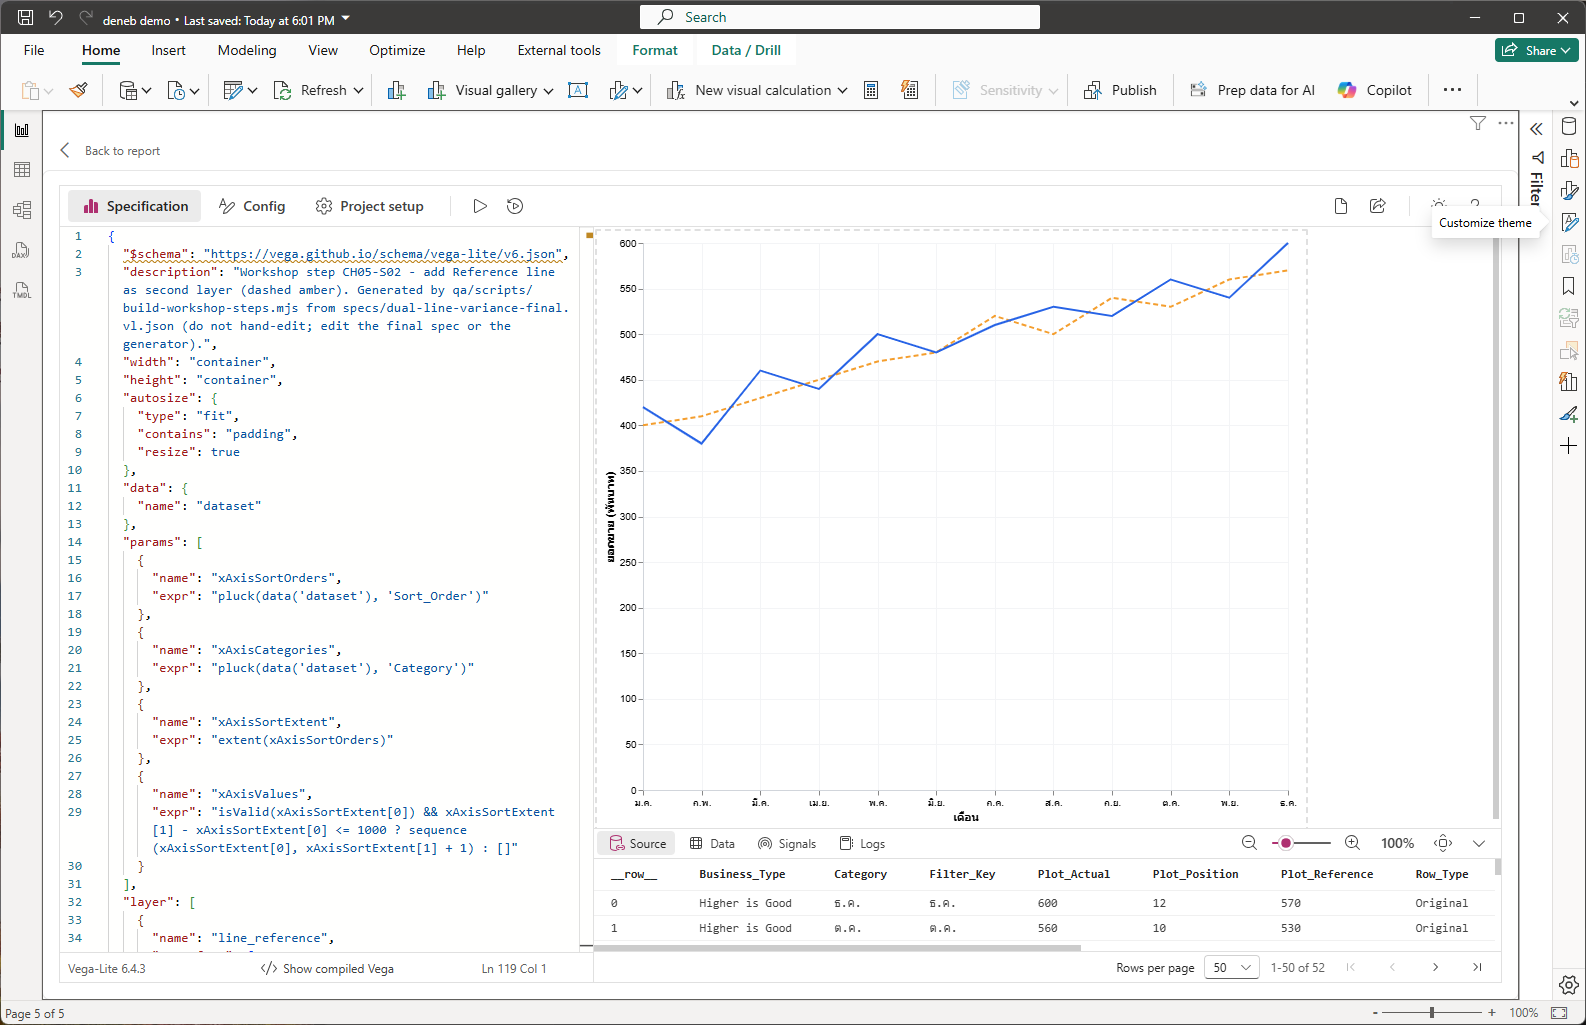
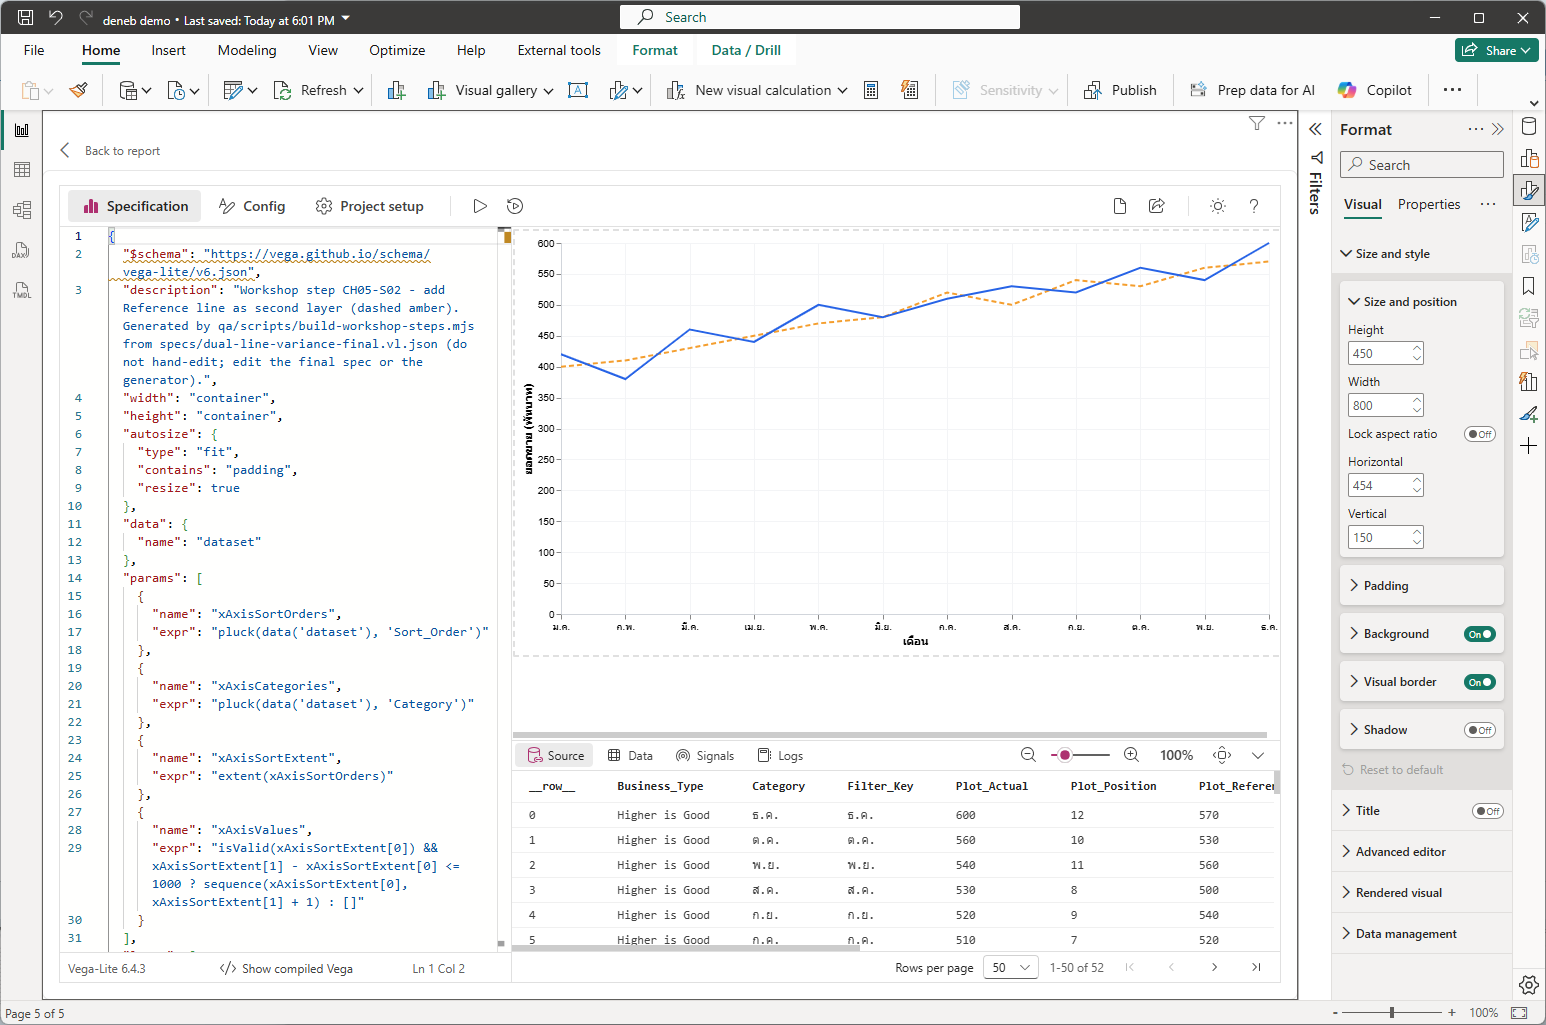
Chapter 5: replace figure 5-3 with a clean screenshot (no stray tooltip)

diff --git a/eBook-DualLineVariance/README.md b/eBook-DualLineVariance/README.md
@@ -84,7 +84,7 @@ Visual อ้างอิงคือ Custom Visual จริงที่ `D:\DA
 | 2 เตรียม Power BI และ Deneb | **PASS** (25 ก.ย. 2026) ภาพจริง 2-1 ถึง 2-20 ใน images/chapter-02 ใช้ Workshop_Data 12 แถว | `review/chapters/CH02_CODEX_VERDICT.md` (REVISE, M-01 ถึง M-07) → `..._R2.md` (PASS) |
 | 3 โครงสร้างภาษา Vega-Lite | **PASS** (25 ก.ย. 2026) ตัวอย่าง 9 ชิ้นทดสอบด้วย `qa/scripts/run-ch03-example-tests.mjs` (65 ผ่าน) ภาพ 3-1 ถึง 3-9 เป็น render headless ไม่ใช่ภาพหน้าจอ Power BI | `review/chapters/CH03_CODEX_VERDICT.md` (REVISE) → `..._R2.md` (PASS) |
 | 4 ชุดข้อมูล Workshop | **PASS** (25 ก.ย. 2026, Codex รอบแรก ไม่มี Mandatory) ภาพจริง 4-1 ถึง 4-10, ตัวเลขตรวจด้วย `qa/scripts/run-ch04-claims-check.mjs` (8 ผ่าน) กรณีข้อมูลผิดปกติของ query ยังไม่ทดสอบบน Power Query จริง (บท 4.7, ไปทดสอบในบท 9) | `review/chapters/CH04_CODEX_VERDICT.md` (PASS) |
-| 5 กราฟสองเส้นแรก | **PASS** (25 ก.ย. 2026, Codex รอบแรก ไม่มี Mandatory) ภาพจริง 5-1 ถึง 5-7 (ภาพ 5-3 มี tooltip ค้าง ถ่ายใหม่ได้ ไม่บังคับ), JSON excerpt ตรวจกับ specs/steps ด้วย `qa/scripts/run-ch05-claims-check.mjs` (26 ผ่าน) คงบรรทัด `$schema` ตามคำตัดสินผู้ใช้ | `review/chapters/CH05_CODEX_VERDICT.md` (PASS) |
+| 5 กราฟสองเส้นแรก | **PASS** (25 ก.ย. 2026, Codex รอบแรก ไม่มี Mandatory) ภาพจริง 5-1 ถึง 5-7 (ภาพ 5-3 ถ่ายใหม่แล้ว), JSON excerpt ตรวจกับ specs/steps ด้วย `qa/scripts/run-ch05-claims-check.mjs` (26 ผ่าน) คงบรรทัด `$schema` ตามคำตัดสินผู้ใช้ | `review/chapters/CH05_CODEX_VERDICT.md` (PASS) |
 | 6 พื้นที่ Variance และ Connector | **รอภาพหน้าจอจริง** ยังไม่เขียนต้นฉบับ | – |
 | 7–10 | ยังไม่เริ่ม | – |
 
